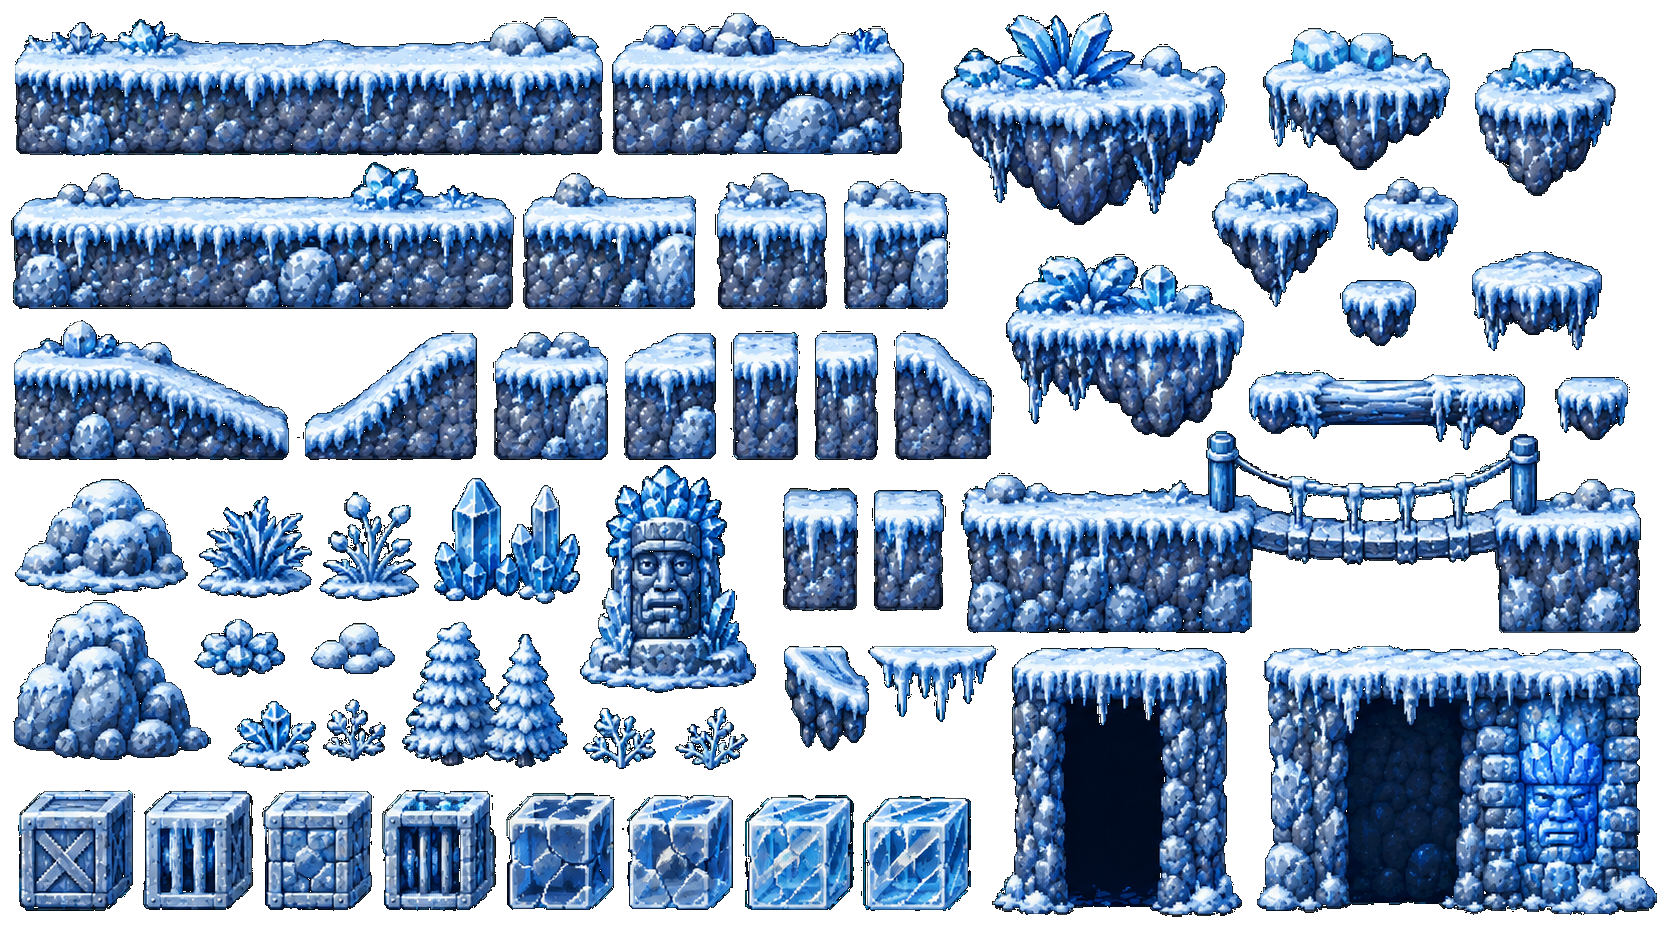
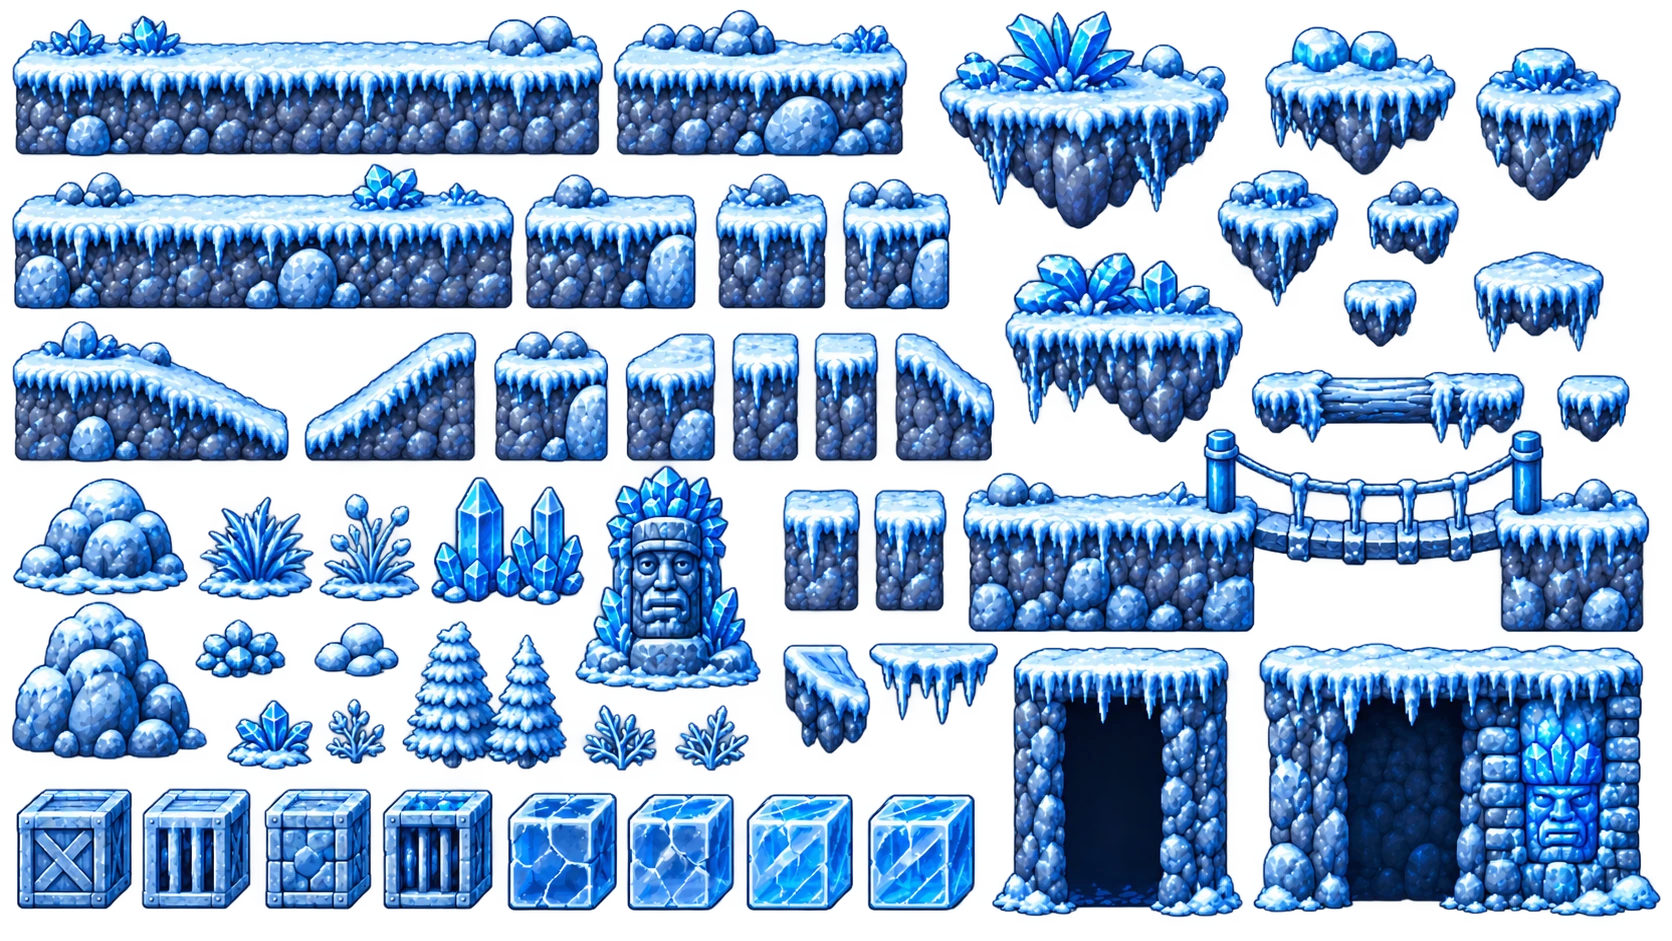
Refaz visuais e recortes precisos da fase 4

diff --git a/js/game.js b/js/game.js
@@ -326,7 +326,7 @@ const jungleSlopes=[];
 const jungleObjectColliders=[];
 const biomeTileSR={
  swampGround:[12,2,554,139],swampFloat:[1069,19,156,197],swampSmall:[1268,171,132,132],swampReeds:[14,431,99,118],swampTree:[362,412,169,220],swampTotem:[538,414,195,199],swampLily:[277,646,157,93],swampLantern:[1007,802,76,107],swampBoat:[773,802,218,112],swampSkull:[1230,787,160,112],
- iceGround:[15,19,588,137],iceFloat:[941,13,284,212],iceSmall:[1263,28,187,142],iceCrystal:[434,478,146,126],iceTotem:[580,465,176,228],iceTree:[402,622,166,146],iceRock:[13,602,198,158],iceBush:[198,496,114,102],iceBridge:[961,431,680,202],
+ iceGround:[12,15,592,143],iceFloat:[939,10,291,220],iceSmall:[1264,26,194,150],iceCrystal:[431,476,154,130],iceTotem:[580,465,176,228],iceTree:[402,620,166,150],iceRock:[13,602,198,158],iceBush:[198,496,117,105],iceBridge:[962,428,688,205],
  templeGround:[0,0,620,140],templeSmall:[0,150,300,128],
  canyonGround:[0,0,620,140],canyonSmall:[0,150,300,128]
 };
